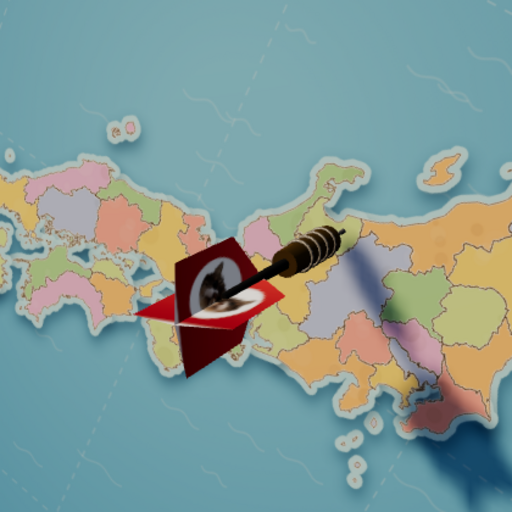
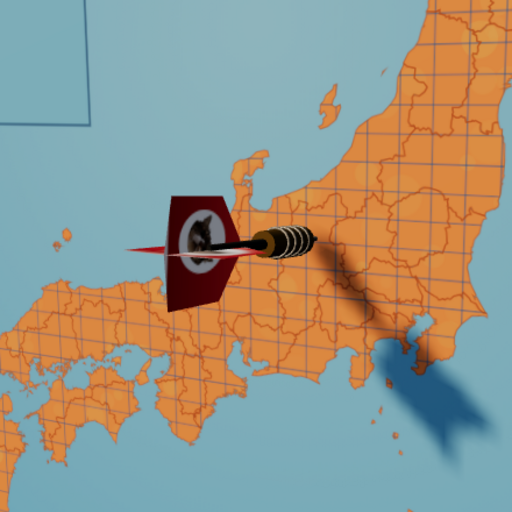
WIP: ダーツの旅 吊るしたダーツボード風に（数字・赤緑の輪・方眼の日本地図、沖縄と小笠原は枠）
Claude-Session: https://claude.ai/code/session_018pgCByz2cK7Tq1bA4qHdVH

diff --git a/games/darts-tabi/index.html b/games/darts-tabi/index.html
@@ -250,9 +250,18 @@
 
     // ---------- 地図データ（出典: 地球地図日本） ----------
     const PREFS = JSON.parse(document.getElementById('jp').textContent);
-    const LON0 = 136.7, LAT0 = 34.9, SPAN = 11.9, KX = Math.cos(LAT0 * Math.PI / 180);
-    const toUV = (lon, lat) => [(lon - LON0) * KX / SPAN, (lat - LAT0) / SPAN];
-    const fromUV = (u, v) => [LON0 + u * SPAN / KX, LAT0 + v * SPAN];
+    // 地図の円の半径を 1 とした座標 (u, v)。本土は大きく、沖縄・小笠原は枠の中に縮めて置く
+    const LON0 = 137.2, LAT0 = 37.8, SPAN = 9.6, KX = Math.cos(LAT0 * Math.PI / 180);
+    const INSETS = [
+      { lo: [122.9, 24.0], hi: [130.3, 29.0], at: [-0.82, 0.0], k: 0.9 },  // 沖縄・奄美（左上の海）
+      { lo: [141.0, 24.6], hi: [142.5, 27.9], at: [0.5, -0.7], k: 1.2 }, // 小笠原（右下の海）
+    ];
+    for (const b of INSETS) b.size = [(b.hi[0] - b.lo[0]) * KX / SPAN * b.k, (b.hi[1] - b.lo[1]) / SPAN * b.k];
+    const toUV = (lon, lat, b) => b ? [b.at[0] + (lon - b.lo[0]) * KX / SPAN * b.k, b.at[1] + (lat - b.lo[1]) / SPAN * b.k] : [(lon - LON0) * KX / SPAN, (lat - LAT0) / SPAN];
+    const fromUV = (u, v) => {
+      for (const b of INSETS) if (u >= b.at[0] && u <= b.at[0] + b.size[0] && v >= b.at[1] && v <= b.at[1] + b.size[1]) return [b.lo[0] + (u - b.at[0]) * SPAN / KX / b.k, b.lo[1] + (v - b.at[1]) * SPAN / b.k];
+      return [LON0 + u * SPAN / KX, LAT0 + v * SPAN];
+    };
     function prefAt(lon, lat) {
       const X = lon * 100, Y = lat * 100;
       for (const p of PREFS) {
@@ -340,56 +349,88 @@
     const floor = new THREE.Mesh(new THREE.PlaneGeometry(14, 8), new THREE.MeshStandardMaterial({ map: tatamiTex, roughness: 0.9 }));
     floor.rotation.x = -Math.PI / 2; floor.position.set(0, 0, 3.9); floor.receiveShadow = true; scene.add(floor);
 
-    // ---------- 日本地図のボード ----------
-    const C = new THREE.Vector3(0, 1.45, 0), R = 0.62;
-    const PREF_COLORS = ['#f4d27a', '#f2a7a0', '#a9d59a', '#f6bd7c', '#b8c9ef', '#e7b8e0', '#cfe39a'];
+    // ---------- 日本地図のダーツボード（壁の釘にひもで吊るす。回さない） ----------
+    const C = new THREE.Vector3(0, 1.42, 0), R = 0.55, RING = 0.05, RB = 0.74; // R: 地図の円、RING: 赤緑の輪、RB: ボード全体
     const mapTex = canvasTex(2048, 2048, (g, w) => {
-      const P = (lon, lat) => { const [u, v] = toUV(lon, lat); return [(u + 1) / 2 * w, (1 - v) / 2 * w]; };
-      // 海: 中心ほど明るい青
-      const sea = g.createRadialGradient(w * 0.45, w * 0.42, w * 0.05, w / 2, w / 2, w * 0.72);
-      sea.addColorStop(0, '#7fc6e8'); sea.addColorStop(1, '#2f7fb6');
+      const S = w / 2 / RB, cx = w / 2;           // 1m あたりのピクセル
+      let inset = null;
+      const P = (lon, lat) => { const [u, v] = toUV(lon, lat, inset); return [cx + u * R * S, cx - v * R * S]; };
+      // 黒いボード（サイザル麻のざらざら）
+      g.fillStyle = '#151515'; g.fillRect(0, 0, w, w);
+      for (let i = 0; i < 40000; i++) { g.fillStyle = `rgba(255,255,255,${rnd(0.01, 0.05)})`; g.fillRect(rnd(0, w), rnd(0, w), rnd(1, 3), rnd(1, 3)); }
+      // 赤と緑の輪（20分割、20が真上）
+      for (let k = 0; k < 20; k++) {
+        const a0 = -Math.PI / 2 - Math.PI / 20 + k * Math.PI / 10, a1 = a0 + Math.PI / 10;
+        g.beginPath(); g.arc(cx, cx, (R + RING) * S, a0, a1); g.arc(cx, cx, R * S, a1, a0, true); g.closePath();
+        g.fillStyle = k % 2 ? '#1f8a3c' : '#e2442c'; g.fill();
+      }
+      // 海と陸
+      g.save(); g.beginPath(); g.arc(cx, cx, R * S, 0, Math.PI * 2); g.clip();
+      const sea = g.createRadialGradient(cx, cx * 0.9, 0, cx, cx, R * S);
+      sea.addColorStop(0, '#8fd6ff'); sea.addColorStop(1, '#6cc0f4');
       g.fillStyle = sea; g.fillRect(0, 0, w, w);
-      // 波の模様
-      g.strokeStyle = "rgba(255,255,255,.14)"; g.lineWidth = 3;
-      for (let i = 0; i < 220; i++) { const x = rnd(0, w), y = rnd(0, w), L = rnd(40, 90), A = rnd(3, 5); g.lineWidth = 2.5; g.beginPath(); for (let k = 0; k <= L; k += 3) { const yy = y + Math.sin(k / L * Math.PI * 3) * A; k ? g.lineTo(x + k, yy) : g.moveTo(x, yy); } g.stroke(); }
-      // 経緯線
-      g.strokeStyle = 'rgba(255,255,255,.22)'; g.lineWidth = 2; g.setLineDash([10, 10]);
-      for (let lon = 120; lon <= 152; lon += 5) { g.beginPath(); let [x, y] = P(lon, 15); g.moveTo(x, y); [x, y] = P(lon, 56); g.lineTo(x, y); g.stroke(); }
-      for (let lat = 20; lat <= 52; lat += 5) { g.beginPath(); let [x, y] = P(110, lat); g.moveTo(x, y); [x, y] = P(162, lat); g.lineTo(x, y); g.stroke(); }
-      g.setLineDash([]);
-      const path = p => { g.beginPath(); for (const r of p.r) { for (let i = 0; i < r.length; i += 2) { const [x, y] = P(r[i] / 100, r[i + 1] / 100); i ? g.lineTo(x, y) : g.moveTo(x, y); } g.closePath(); } };
-      // 浅瀬（陸のまわりの明るい縁）と影
-      g.save(); g.shadowColor = 'rgba(10,40,70,.45)'; g.shadowBlur = 18; g.shadowOffsetX = 6; g.shadowOffsetY = 8;
-      g.strokeStyle = 'rgba(190,235,250,.9)'; g.lineWidth = 16; g.lineJoin = 'round';
-      for (const p of PREFS) { path(p); g.stroke(); }
+      const drawMap = () => {
+      const land = () => { g.beginPath(); for (const p of PREFS) for (const r of p.r) { for (let i = 0; i < r.length; i += 2) { const [x, y] = P(r[i] / 100, r[i + 1] / 100); i ? g.lineTo(x, y) : g.moveTo(x, y); } g.closePath(); } };
+      land(); g.fillStyle = '#ff9a55'; g.fill('evenodd');
+      // 陸の上だけ方眼（0.5度ごと）
+      g.save(); land(); g.clip('evenodd');
+      for (let i = 0; i < 1600; i++) { g.fillStyle = `rgba(255,${200 + Math.random() * 40 | 0},120,${rnd(0.05, 0.18)})`; g.beginPath(); g.arc(rnd(0, w), rnd(0, w), rnd(6, 20), 0, Math.PI * 2); g.fill(); }
+      g.strokeStyle = 'rgba(70,120,190,.55)'; g.lineWidth = 1.6;
+      for (let lon = 122; lon <= 150; lon += 0.5) { g.beginPath(); let [x, y] = P(lon, 20); g.moveTo(x, y); [x, y] = P(lon, 48); g.lineTo(x, y); g.stroke(); }
+      for (let lat = 20; lat <= 48; lat += 0.5 * 0.67) { g.beginPath(); let [x, y] = P(120, lat); g.moveTo(x, y); [x, y] = P(152, lat); g.lineTo(x, y); g.stroke(); }
       g.restore();
-      for (const p of PREFS) { path(p); g.fillStyle = PREF_COLORS[(p.id * 3) % PREF_COLORS.length]; g.fill('evenodd'); }
-      // 山っぽいまだら
-      g.save(); g.beginPath(); for (const p of PREFS) for (const r of p.r) { for (let i = 0; i < r.length; i += 2) { const [x, y] = P(r[i] / 100, r[i + 1] / 100); i ? g.lineTo(x, y) : g.moveTo(x, y); } g.closePath(); } g.clip('evenodd');
-      for (let i = 0; i < 2500; i++) { g.fillStyle = `rgba(${Math.random() < 0.5 ? '90,70,30' : '255,255,255'},${rnd(0.03, 0.08)})`; g.beginPath(); g.arc(rnd(0, w), rnd(0, w), rnd(3, 14), 0, Math.PI * 2); g.fill(); }
+      for (const p of PREFS) { g.beginPath(); for (const r of p.r) { for (let i = 0; i < r.length; i += 2) { const [x, y] = P(r[i] / 100, r[i + 1] / 100); i ? g.lineTo(x, y) : g.moveTo(x, y); } g.closePath(); } g.strokeStyle = 'rgba(190,95,45,.55)'; g.lineWidth = 1.4; g.stroke(); }
+      };
+      drawMap();
+      // 枠の中の島々
+      for (const b of INSETS) {
+        const x0 = cx + b.at[0] * R * S, y1 = cx - b.at[1] * R * S, bw = b.size[0] * R * S, bh = b.size[1] * R * S;
+        g.save(); g.beginPath(); g.rect(x0, y1 - bh, bw, bh); g.clip();
+        g.fillStyle = '#7ccbf8'; g.fillRect(x0, y1 - bh, bw, bh);
+        inset = b; drawMap(); inset = null;
+        g.restore();
+        g.strokeStyle = 'rgba(60,100,150,.7)'; g.lineWidth = 3; g.strokeRect(x0, y1 - bh, bw, bh);
+      }
       g.restore();
-      g.lineJoin = 'round';
-      for (const p of PREFS) { path(p); g.strokeStyle = 'rgba(255,255,255,.9)'; g.lineWidth = 2.5; g.stroke(); }
-      for (const p of PREFS) { path(p); g.strokeStyle = 'rgba(70,45,20,.7)'; g.lineWidth = 1.2; g.stroke(); }
-      // 方位
-      const cx = w * 0.82, cy = w * 0.8, s = w * 0.05;
-      g.fillStyle = 'rgba(255,255,255,.85)'; g.strokeStyle = 'rgba(40,60,90,.8)'; g.lineWidth = 3;
-      g.beginPath(); g.moveTo(cx, cy - s); g.lineTo(cx + s * 0.25, cy); g.lineTo(cx, cy + s); g.lineTo(cx - s * 0.25, cy); g.closePath(); g.fill(); g.stroke();
-      g.beginPath(); g.moveTo(cx - s, cy); g.lineTo(cx, cy + s * 0.25); g.lineTo(cx + s, cy); g.lineTo(cx, cy - s * 0.25); g.closePath(); g.fill(); g.stroke();
-      g.fillStyle = '#c0392b'; g.beginPath(); g.moveTo(cx, cy - s); g.lineTo(cx + s * 0.25, cy); g.lineTo(cx - s * 0.25, cy); g.closePath(); g.fill();
+      // 金色の針金（輪の境目・放射線・数字）
+      const gold = 'rgba(214,180,96,.95)';
+      g.strokeStyle = gold; g.lineWidth = 4;
+      for (const rr of [R, R + RING]) { g.beginPath(); g.arc(cx, cx, rr * S, 0, Math.PI * 2); g.stroke(); }
+      for (let k = 0; k < 20; k++) {
+        const a = -Math.PI / 2 - Math.PI / 20 + k * Math.PI / 10;
+        g.beginPath(); g.moveTo(cx + Math.cos(a) * R * S, cx + Math.sin(a) * R * S); g.lineTo(cx + Math.cos(a) * (RB - 0.035) * S, cx + Math.sin(a) * (RB - 0.035) * S); g.stroke();
+      }
+      const NUM = [20, 1, 18, 4, 13, 6, 10, 15, 2, 17, 3, 19, 7, 16, 8, 11, 14, 9, 12, 5];
+      g.font = `400 ${0.085 * S}px Georgia, "Times New Roman", serif`; g.textAlign = 'center'; g.textBaseline = 'middle';
+      g.lineWidth = 5; g.strokeStyle = gold;
+      NUM.forEach((n, k) => {
+        const a = -Math.PI / 2 + k * Math.PI / 10, rr = (R + RING + RB - 0.02) / 2 * S;
+        g.save(); g.translate(cx + Math.cos(a) * rr, cx + Math.sin(a) * rr); g.rotate(a + Math.PI / 2);
+        g.strokeText(String(n), 0, 0); g.restore();
+      });
     });
     mapTex.anisotropy = 8;
     const boardSpin = new THREE.Group(); boardSpin.position.copy(C); scene.add(boardSpin);
-    const face = new THREE.Mesh(new THREE.CircleGeometry(R, 96), new THREE.MeshStandardMaterial({ map: mapTex, roughness: 0.75 }));
+    const face = new THREE.Mesh(new THREE.CircleGeometry(RB, 128), new THREE.MeshStandardMaterial({ map: mapTex, roughness: 0.85 }));
     face.receiveShadow = true; boardSpin.add(face);
-    const back = new THREE.Mesh(new THREE.CylinderGeometry(R, R, 0.04, 96), new THREE.MeshStandardMaterial({ color: '#d9c49a', roughness: 0.8 }));
-    back.rotation.x = Math.PI / 2; back.position.z = -0.021; back.castShadow = true; boardSpin.add(back);
-    const rimTex = woodTex('#9a6334', '60,30,10', [6, 1]);
-    const rim = new THREE.Mesh(new THREE.TorusGeometry(R + 0.022, 0.03, 16, 96), new THREE.MeshStandardMaterial({ map: rimTex, roughness: 0.45 }));
-    rim.position.copy(C); rim.castShadow = true; rim.receiveShadow = true; scene.add(rim);
-    // 回転の目印（ボルト）
-    const boltGeo = new THREE.SphereGeometry(0.009, 12, 8), boltMat = new THREE.MeshStandardMaterial({ color: '#c9b37a', metalness: 0.8, roughness: 0.3 });
-    for (let i = 0; i < 12; i++) { const b = new THREE.Mesh(boltGeo, boltMat); const a = i / 12 * Math.PI * 2; b.position.set(Math.cos(a) * (R + 0.022), Math.sin(a) * (R + 0.022), 0.028); rim.add(b); }
+    const back = new THREE.Mesh(new THREE.CylinderGeometry(RB, RB, 0.04, 128), new THREE.MeshStandardMaterial({ color: '#1c1c1c', roughness: 0.7 }));
+    back.rotation.x = Math.PI / 2; back.position.z = -0.0205; back.castShadow = true; back.receiveShadow = true; boardSpin.add(back);
+    // 針金は少し浮かせて立体に
+    const wireMat = new THREE.MeshStandardMaterial({ color: '#d8b864', metalness: 0.85, roughness: 0.3 });
+    for (const rr of [R, R + RING]) { const t = new THREE.Mesh(new THREE.TorusGeometry(rr, 0.0022, 6, 160), wireMat); t.position.z = 0.002; boardSpin.add(t); }
+    // 釘とひも
+    const NAIL = new THREE.Vector3(0, C.y + RB + 0.26, -0.06);
+    const nail = new THREE.Mesh(new THREE.CylinderGeometry(0.012, 0.012, 0.006, 16), new THREE.MeshStandardMaterial({ color: '#8a8a8a', metalness: 0.9, roughness: 0.35 }));
+    nail.rotation.x = Math.PI / 2; nail.position.copy(NAIL).add(new THREE.Vector3(0, 0, 0.03)); nail.castShadow = true; scene.add(nail);
+    const nailPin = new THREE.Mesh(new THREE.CylinderGeometry(0.004, 0.004, 0.03, 8), nail.material); nailPin.rotation.x = Math.PI / 2; nailPin.position.copy(NAIL).add(new THREE.Vector3(0, 0, 0.015)); scene.add(nailPin);
+    const cordMat = new THREE.MeshStandardMaterial({ color: '#c9a66b', roughness: 0.95 });
+    for (const sx of [-1, 1]) {
+      const a = new THREE.Vector3(sx * 0.34, C.y + Math.sqrt(RB * RB - 0.34 * 0.34) - 0.015, -0.03), b = NAIL.clone().add(new THREE.Vector3(0, 0.004, 0.022));
+      const cord = new THREE.Mesh(new THREE.CylinderGeometry(0.0035, 0.0035, a.distanceTo(b), 6), cordMat);
+      cord.position.copy(a).add(b).multiplyScalar(0.5); cord.quaternion.setFromUnitVectors(new THREE.Vector3(0, 1, 0), b.clone().sub(a).normalize());
+      cord.castShadow = true; scene.add(cord);
+      const eye = new THREE.Mesh(new THREE.TorusGeometry(0.009, 0.0025, 6, 12), nail.material); eye.position.copy(a); scene.add(eye);
+    }
 
     // いつもの猫: 壁の額縁の写真とダーツの羽根
     const catImg = new Image(); catImg.src = 'cat.png';
@@ -526,7 +567,7 @@
         card.style.setProperty('--band', band + 'px');
       } else {
         // 下の方は手に持った矢の場所
-        g = { band: 0, side: 0, fit: 0.72, target: C.clone(), hold: Math.round(Math.min(h * 0.22, 150)), h };
+        g = { band: 0, side: 0, fit: 0.9, target: C.clone().add(new THREE.Vector3(0, 0.1, 0)), hold: Math.round(Math.min(h * 0.22, 150)), h };
       }
       camGoal = g;
       if (snapNow) { camState = { band: g.band, side: g.side, fit: g.fit, target: g.target.clone(), hold: g.hold || 0, h: g.h, tilt: g.tilt || 0 }; }
@@ -685,11 +726,7 @@
         const k = f.p.z / (f.p.z - np.z);
         const q = f.p.clone().lerp(np, k);
         const r = Math.hypot(q.x - C.x, q.y - C.y);
-        if (r <= R) { stickBoard(q); return; }
-        if (r <= R + 0.055) { // 枠に当たって跳ね返る
-          f.p.copy(q); f.p.z = 0.01; f.v.set(f.v.x * 0.3 + rnd(-0.4, 0.4), rnd(0, 0.8), Math.abs(f.v.z) * 0.18); f.fall = true; f.spin = rnd(-14, 14);
-          sfx.rim(); return;
-        }
+        if (r <= RB) { stickBoard(q); return; }
       }
       // 壁
       if (np.z <= -0.08 && f.p.z > -0.08) {
@@ -727,6 +764,8 @@
       boardSpin.attach(f.d);
       f.d.userData.baseQ = f.d.quaternion.clone(); f.d.userData.wob = 0;
       stuck.push(f.d);
+      // 赤緑の輪や数字の所は地図の外: 外れ扱い
+      if (Math.hypot(lx, ly) > R) { sfx.thunk(); burst(q, 6, chipMat, 0.5, 0.004); setTimeout(() => crowd("miss"), 200); state = "miss"; missT = 0.9; return; }
       const [lon, lat] = fromUV(lx / R, ly / R);
       const pref = prefAt(lon, lat);
       hit = { kind: pref ? 'land' : 'sea', lon, lat, pref, local: new THREE.Vector3(lx, ly, 0), info: null, t: 0 };
